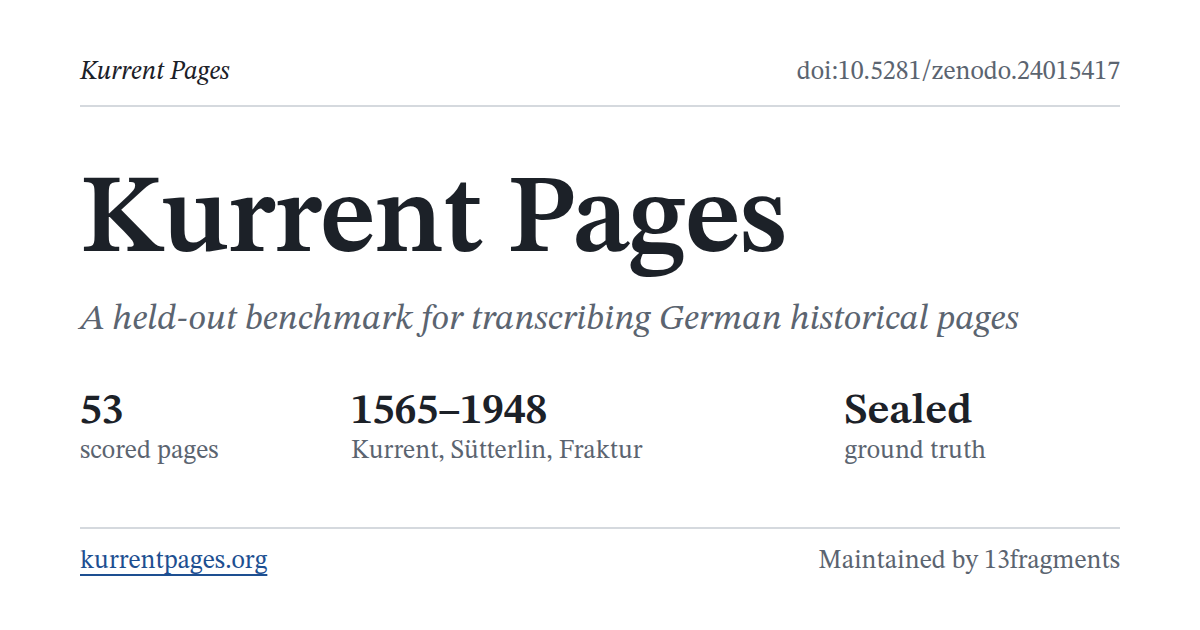
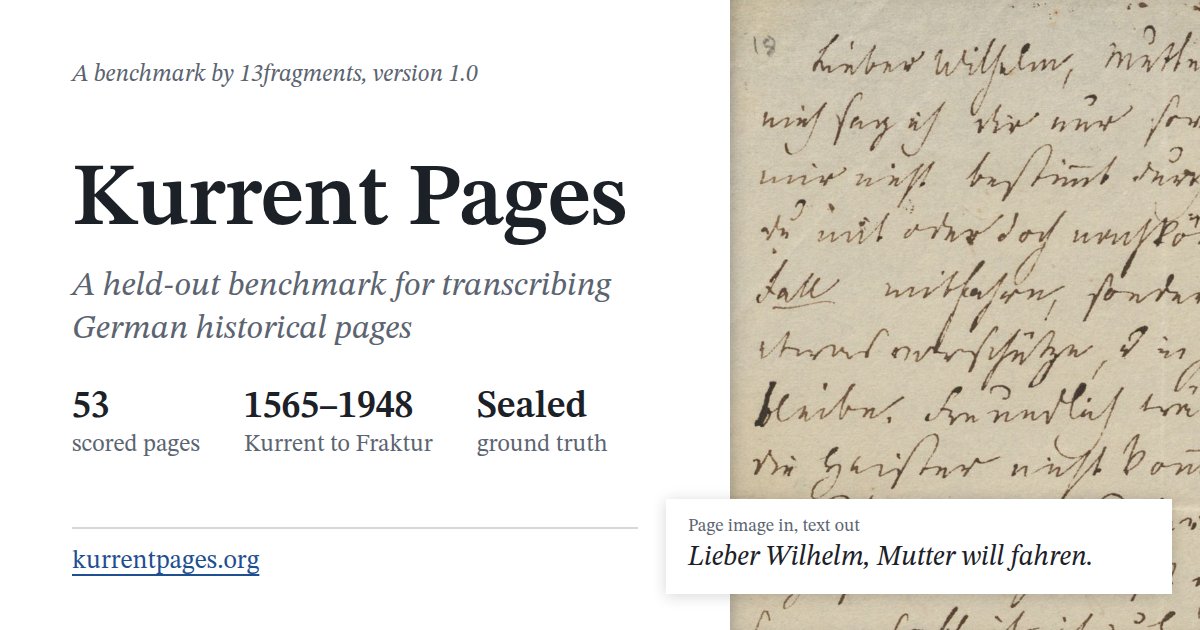
feat(site): show a Kurrent page on the link preview image (#6)
* feat(site): show a Kurrent page on the link preview image

The first preview image held only text. It now shows practice page P01,
a public-domain letter from 1829, beside the title, and the page's first
line as text, so the card shows the task: page image in, text out.
The og:image URL gets a version query so that link preview caches
fetch the new image.

* chore(site): add the Bing Webmaster Tools verification tag

diff --git a/site/social/og-image.html b/site/social/og-image.html
@@ -3,7 +3,10 @@
 <head>
 <meta charset="utf-8">
 <title>Kurrent Pages link preview</title>
-<!-- Source for site/public/og-image.png. Render with scripts/render_social_card.sh. -->
+<!-- Source for site/public/og-image.png. Render with scripts/render_social_card.sh.
+     The page image is practice page P01 (Fanny Hensel to Wilhelm Hensel, 1829;
+     Staatsbibliothek zu Berlin, Public Domain Mark 1.0). The line below it is
+     the first line of practice/gt/P01.txt. -->
 <style>
   @font-face { font-family: "STIX Two Text"; font-style: normal; font-weight: 400; src: url("../public/assets/fonts/stix-two-text-latin-400-normal.woff2") format("woff2"); }
   @font-face { font-family: "STIX Two Text"; font-style: italic; font-weight: 400; src: url("../public/assets/fonts/stix-two-text-latin-400-italic.woff2") format("woff2"); }
@@ -11,44 +14,43 @@
   :root { --paper: #ffffff; --ink: #1c2128; --muted: #5b6470; --hair: #d5d9de; --link: #1d4f91; }
   * { box-sizing: border-box; margin: 0; }
   html, body { width: 1200px; height: 630px; overflow: hidden; background: var(--paper); }
-  body { color: var(--ink); font-family: "STIX Two Text", serif; font-variant-numeric: lining-nums; padding: 56px 80px 52px; display: flex; flex-direction: column; }
+  body { color: var(--ink); font-family: "STIX Two Text", serif; font-variant-numeric: lining-nums; display: grid; grid-template-columns: 1fr 470px; }
 
-  .running-head { display: flex; justify-content: space-between; font-size: 26px; padding-bottom: 16px; border-bottom: 2px solid var(--hair); }
-  .running-head .home { font-style: italic; }
-  .running-head .doi { color: var(--muted); }
-
-  main { flex: 1; display: flex; flex-direction: column; justify-content: center; }
-  h1 { font-size: 112px; line-height: 1; font-weight: 600; letter-spacing: -0.01em; }
-  .subtitle { margin-top: 20px; font-size: 36px; white-space: nowrap; line-height: 1.25; font-style: italic; color: var(--muted); }
-
-  table { margin-top: 44px; border-collapse: collapse; font-size: 26px; }
-  td { padding: 0 48px 0 0; }
-  td.n { font-size: 44px; font-weight: 600; line-height: 1.1; }
-  td.l { color: var(--muted); }
-
-  footer { padding-top: 16px; border-top: 2px solid var(--hair); font-size: 26px; display: flex; justify-content: space-between; }
+  .text { padding: 60px 92px 52px 72px; position: relative; z-index: 0; display: flex; flex-direction: column; }
+  .label { font-size: 24px; color: var(--muted); font-style: italic; }
+  h1 { margin-top: auto; font-size: 88px; white-space: nowrap; line-height: 1; font-weight: 600; letter-spacing: -0.01em; }
+  .subtitle { margin-top: 20px; font-size: 34px; line-height: 1.25; font-style: italic; color: var(--muted); }
+  .facts { margin-top: 36px; display: flex; gap: 44px; font-size: 24px; color: var(--muted); }
+  .facts b { display: block; font-size: 38px; line-height: 1.15; font-weight: 600; color: var(--ink); }
+  footer { margin-top: auto; padding-top: 16px; border-top: 2px solid var(--hair); font-size: 26px; display: flex; justify-content: space-between; }
   footer .url { color: var(--link); text-decoration: underline; text-decoration-thickness: 2px; text-underline-offset: 6px; }
-  footer .by { color: var(--muted); }
+
+  .plate { position: relative; background: #e9e1d0 url("../../practice/images/P01.jpg") no-repeat; background-size: 940px auto; background-position: -40px -28px; }
+  .plate::before { content: ""; position: absolute; inset: 0; box-shadow: inset 12px 0 18px -12px rgba(28, 33, 40, .35); }
+  .out { position: absolute; left: -64px; right: 28px; bottom: 36px; background: var(--paper); padding: 16px 22px 18px; box-shadow: 0 2px 14px rgba(28, 33, 40, .18); }
+  .out .k { font-size: 18px; color: var(--muted); }
+  .out p { margin-top: 4px; font-size: 28px; white-space: nowrap; line-height: 1.2; font-style: italic; }
 </style>
 </head>
 <body>
-  <header class="running-head">
-    <span class="home">Kurrent Pages</span>
-    <span class="doi">doi:10.5281/zenodo.24015417</span>
-  </header>
-
-  <main>
+  <section class="text">
+    <p class="label">A benchmark by 13fragments, version 1.0</p>
     <h1>Kurrent Pages</h1>
     <p class="subtitle">A held-out benchmark for transcribing German historical pages</p>
-    <table>
-      <tr><td class="n">53</td><td class="n">1565–1948</td><td class="n">Sealed</td></tr>
-      <tr><td class="l">scored pages</td><td class="l">Kurrent, Sütterlin, Fraktur</td><td class="l">ground truth</td></tr>
-    </table>
-  </main>
-
-  <footer>
-    <span class="url">kurrentpages.org</span>
-    <span class="by">Maintained by 13fragments</span>
-  </footer>
+    <div class="facts">
+      <span><b>53</b>scored pages</span>
+      <span><b>1565–1948</b>Kurrent to Fraktur</span>
+      <span><b>Sealed</b>ground truth</span>
+    </div>
+    <footer>
+      <span class="url">kurrentpages.org</span>
+    </footer>
+  </section>
+  <div class="plate">
+    <div class="out">
+      <span class="k">Page image in, text out</span>
+      <p>Lieber Wilhelm, Mutter will fahren.</p>
+    </div>
+  </div>
 </body>
 </html>

diff --git a/site/public/index.html b/site/public/index.html
@@ -3,6 +3,7 @@
 <head>
 <meta charset="utf-8">
 <meta name="viewport" content="width=device-width, initial-scale=1">
+<meta name="msvalidate.01" content="8956E453AADD33D9EF10F1FF1116C224">
 <title>Kurrent Pages: a held-out HTR benchmark for German historical pages</title>
 <meta name="description" content="Kurrent Pages is a held-out benchmark for handwritten text recognition (HTR) and OCR on German historical pages from 1565 to 1948: Kurrent, Sütterlin, degraded Fraktur, registers, and marginalia. The ground truth is sealed.">
 <link rel="canonical" href="https://kurrentpages.org/">
@@ -11,10 +12,10 @@
 <meta property="og:url" content="https://kurrentpages.org/">
 <meta property="og:title" content="Kurrent Pages">
 <meta property="og:description" content="A held-out benchmark for transcribing German historical pages, 1565 to 1948. The ground truth is sealed.">
-<meta property="og:image" content="https://kurrentpages.org/og-image.png">
+<meta property="og:image" content="https://kurrentpages.org/og-image.png?v=2">
 <meta property="og:image:width" content="1200">
 <meta property="og:image:height" content="630">
-<meta property="og:image:alt" content="Kurrent Pages: a held-out benchmark for transcribing German historical pages. 53 scored pages, 1565 to 1948, sealed ground truth.">
+<meta property="og:image:alt" content="Kurrent Pages, a held-out benchmark for transcribing German historical pages, beside a letter in Kurrent script from 1829 and its first line as text.">
 <meta name="twitter:card" content="summary_large_image">
 <link rel="icon" href="/favicon.svg" type="image/svg+xml">
 <link rel="preload" href="/assets/fonts/stix-two-text-latin-400-normal.woff2" as="font" type="font/woff2" crossorigin>

diff --git a/site/public/leaderboard/index.html b/site/public/leaderboard/index.html
@@ -11,10 +11,10 @@
 <meta property="og:url" content="https://kurrentpages.org/leaderboard/">
 <meta property="og:title" content="Kurrent Pages leaderboard">
 <meta property="og:description" content="Overall and per-stratum scores for every engine on the Kurrent Pages Benchmark v1.0.">
-<meta property="og:image" content="https://kurrentpages.org/og-image.png">
+<meta property="og:image" content="https://kurrentpages.org/og-image.png?v=2">
 <meta property="og:image:width" content="1200">
 <meta property="og:image:height" content="630">
-<meta property="og:image:alt" content="Kurrent Pages: a held-out benchmark for transcribing German historical pages. 53 scored pages, 1565 to 1948, sealed ground truth.">
+<meta property="og:image:alt" content="Kurrent Pages, a held-out benchmark for transcribing German historical pages, beside a letter in Kurrent script from 1829 and its first line as text.">
 <meta name="twitter:card" content="summary_large_image">
 <link rel="icon" href="/favicon.svg" type="image/svg+xml">
 <link rel="preload" href="/assets/fonts/stix-two-text-latin-400-normal.woff2" as="font" type="font/woff2" crossorigin>
